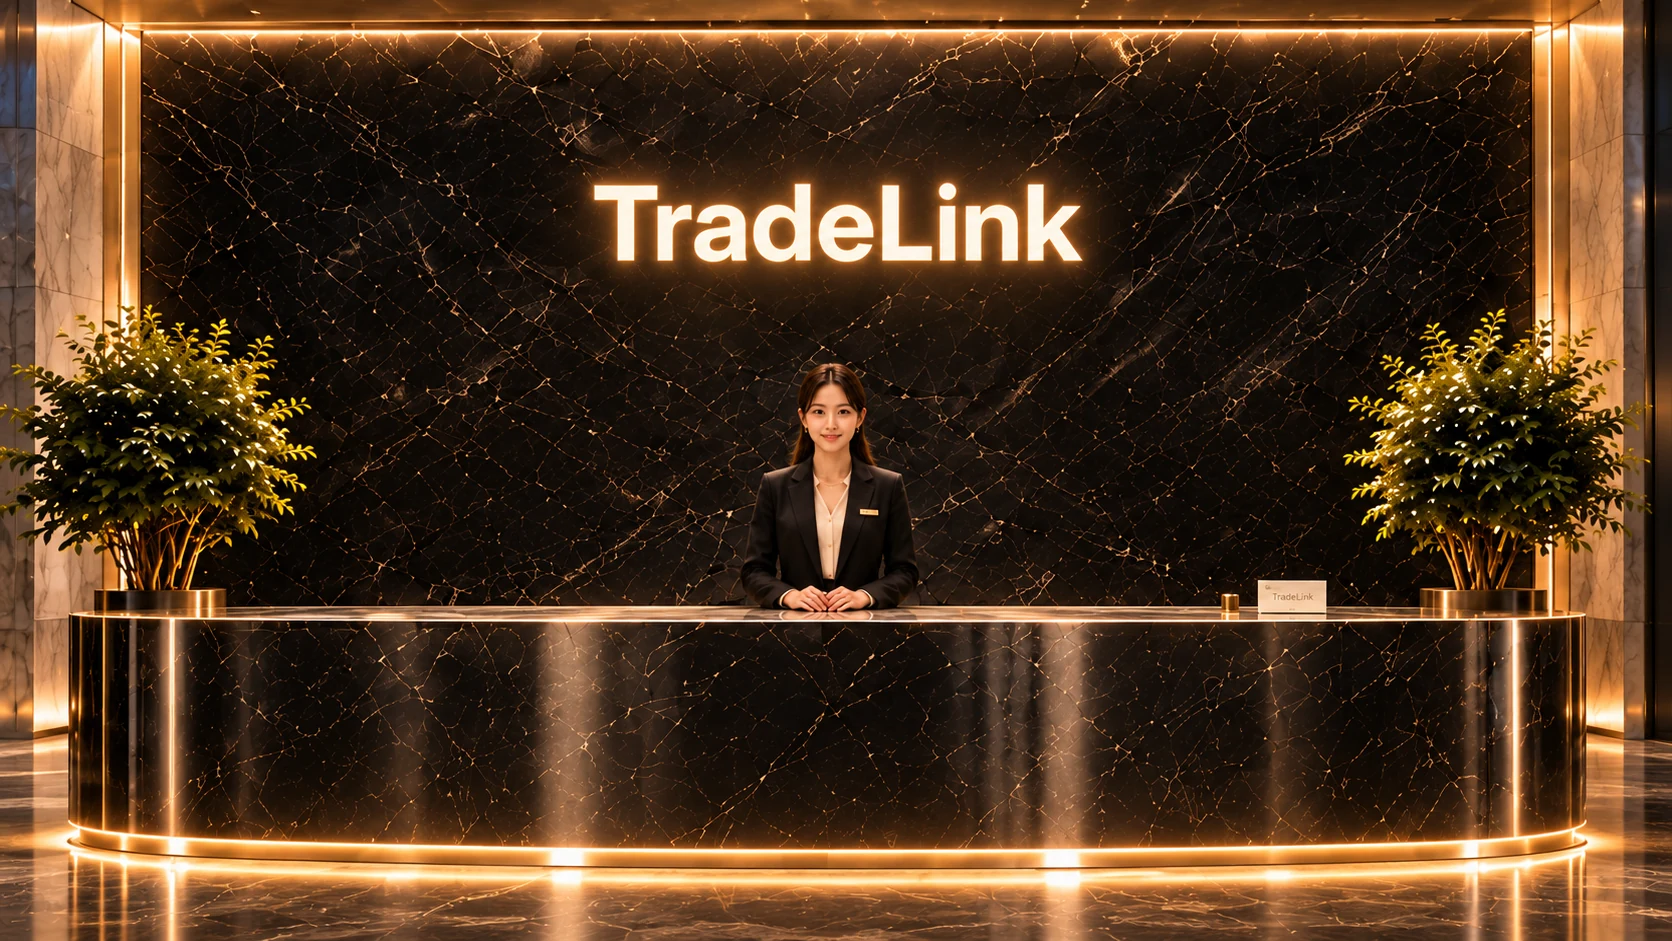
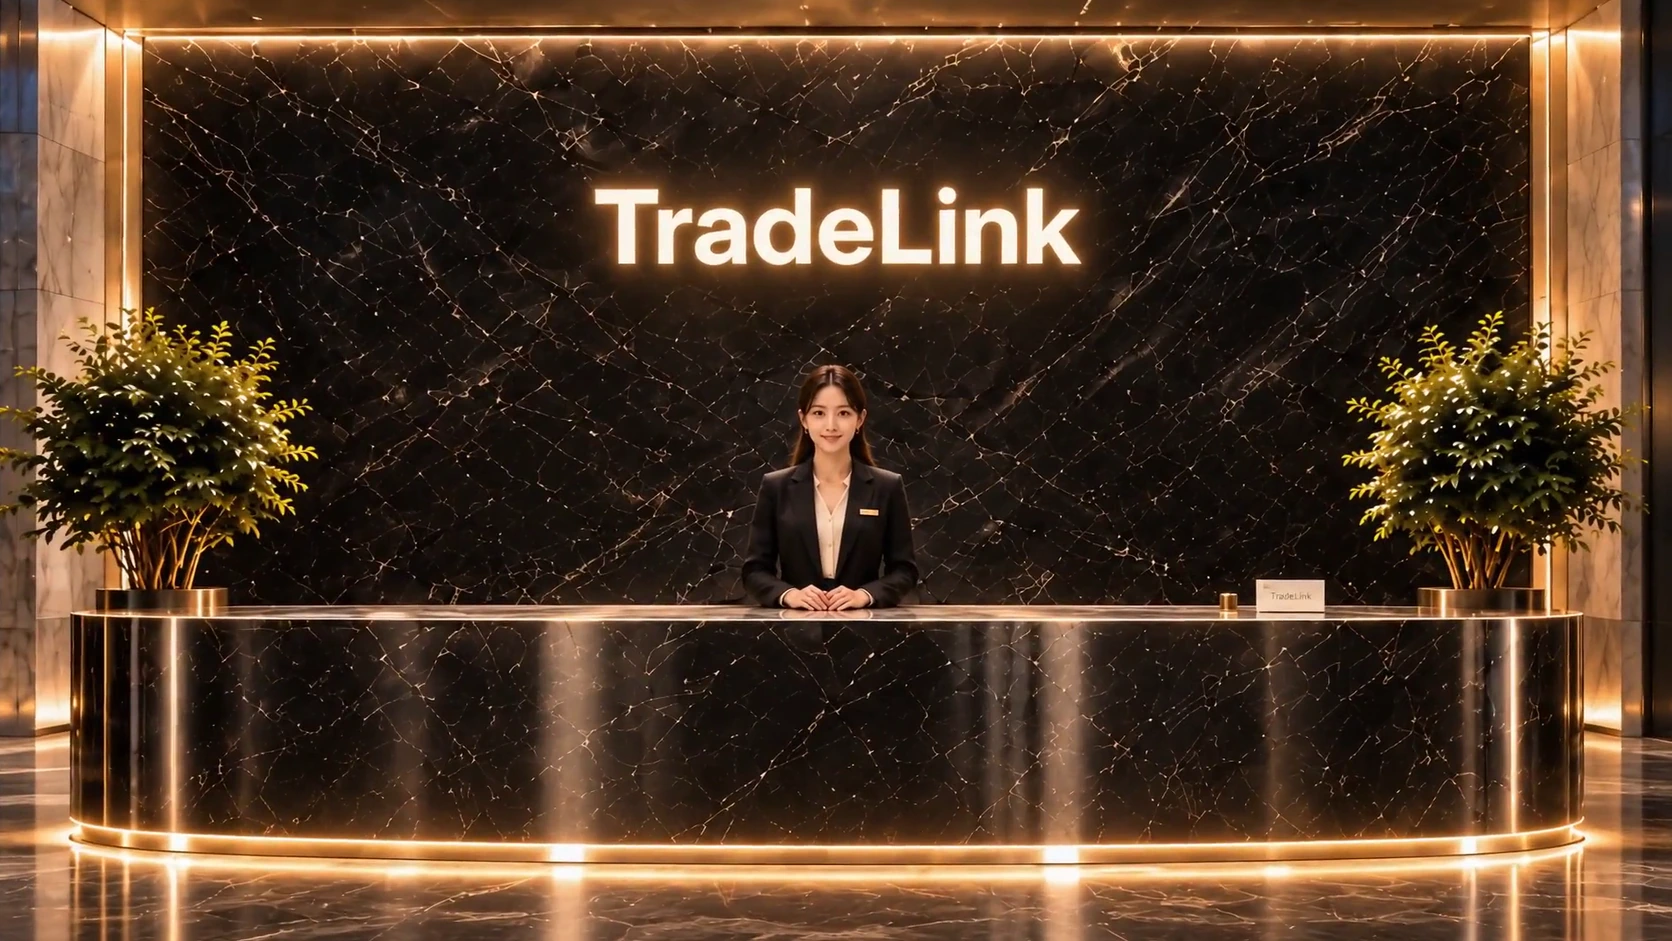
fix: recepce-master.webp je teď skutečný poslední snímek videa
Obráceně, jak navrhl uživatel: místo barvení videa, aby sedělo na
samostatnou fotku, je teď fotka přímo extrahovaná z posledního snímku
prechod-recepce.mp4 (ffmpeg + resize na 1672x941, beze změny kompozice).
Přechod tak nemá kam "skočit" — statická fotka a konec videa jsou
doslova stejný snímek. Ruší se tím i minulá CSS filtr korekce
(brightness/saturate), není už potřeba.

Claude-Session: https://claude.ai/code/session_01XbiYuT9CgJ6mvXv8YAcdEp

diff --git a/site/homepage.css b/site/homepage.css
@@ -93,9 +93,6 @@
 .atrium__next video{
   position:absolute;inset:0;width:100%;height:100%;object-fit:cover;object-position:56% 50%;
   opacity:0;
-  /* klip je oproti recepce-master.webp mírně přeexponovaný/teplejší —
-     jemná korekce, ať poslední snímek videa sedí se statickou fotkou */
-  filter:brightness(.93) saturate(1.05);
 }
 /* varianta s videem: fotka se nepřibližuje, video ji hned nahradí (první snímek = atrium) */
 body.is-leaving.is-video .atrium__media img{transform:none}
